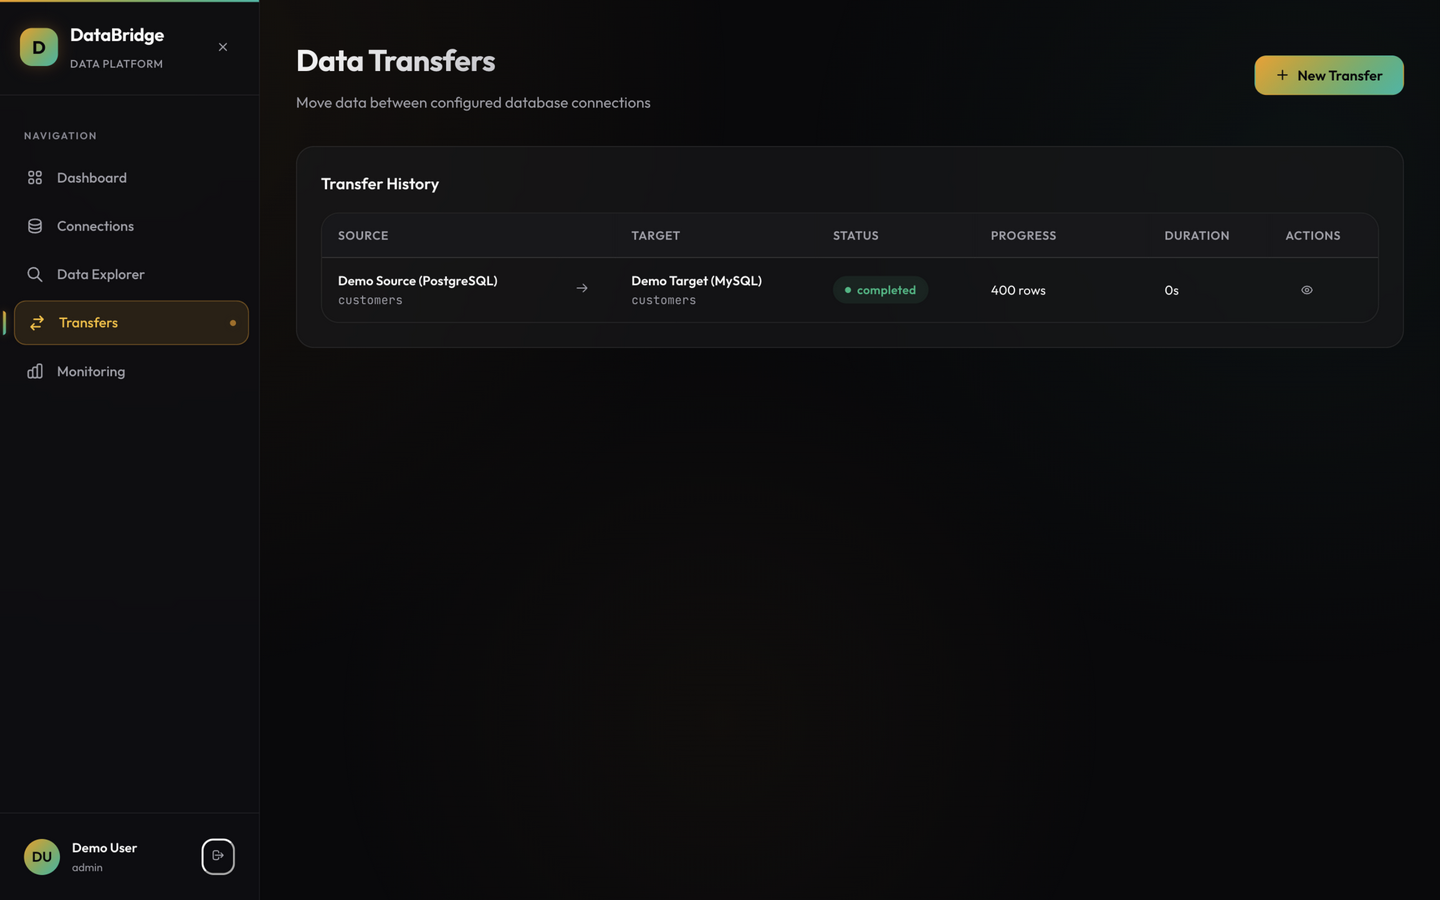
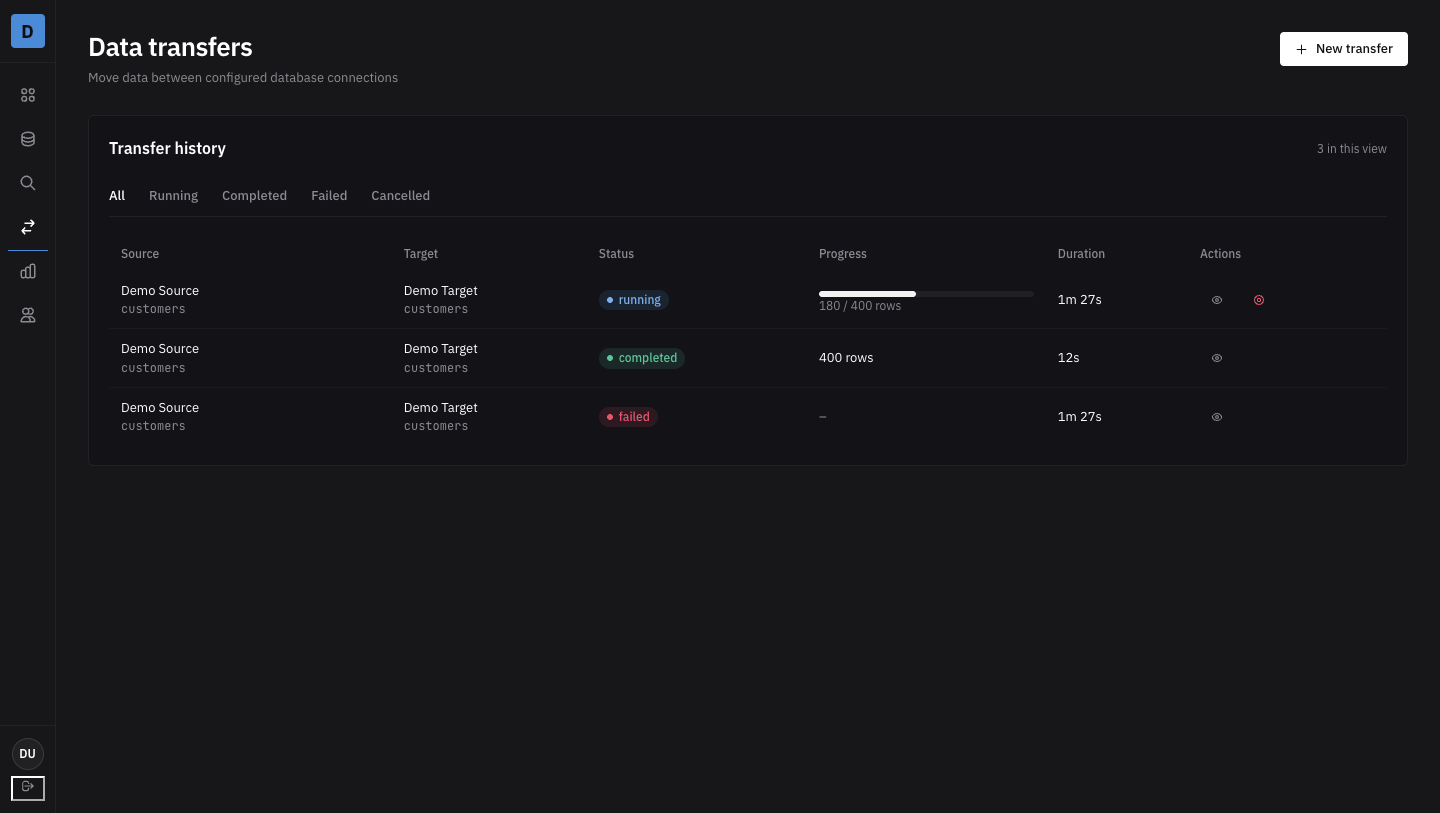
docs: refresh all screenshots and remove stale theme references
Recapture all nine screenshots from the production build of the redesigned SPA at 1440x900 (login captured unauthenticated, the wizard driven to step 3 to show the column-mapping spine, transfer detail from the new route). Update ARCHITECTURE.md with the current component tree, routes, URL state and Data Terminal design tokens; update TESTING.md with the full frontend check list and the design lint gate; fix the two remaining glassmorphism references in README and ARCHITECTURE.

diff --git a/docs/ARCHITECTURE.md b/docs/ARCHITECTURE.md
@@ -14,20 +14,33 @@ The frontend is a Single Page Application (SPA) that communicates with the backe
 
 **Component Architecture:**
 ```
-App.jsx (Router + Auth Guard)
-├── Sidebar.jsx (Navigation)
+App.jsx (Router + Auth Guard + Skip Link)
+├── Sidebar.jsx (Icon rail / mobile drawer)
+├── components/States.jsx (Loading, Empty, Error, Freshness, Value)
+├── components/Modal.jsx (Accessible dialog)
+├── context/AuthContext.jsx
+├── hooks/usePolling.js
 ├── Login.jsx (Auth forms)
 ├── Dashboard.jsx (Stats + Activity)
 ├── Connections.jsx (CRUD + Test)
 ├── Explorer.jsx (Schema Tree + Preview)
 ├── Transfers.jsx (Wizard + History)
-└── Monitoring.jsx (Metrics + Logs)
+├── TransferDetail.jsx (/transfers/:id — progress + logs)
+├── Monitoring.jsx (Metrics + Activity)
+└── AdminUsers.jsx (/admin/users — admin only)
 ```
 
+**Routes**: `/login`, `/`, `/connections`, `/explorer`, `/transfers`,
+`/transfers/:id`, `/monitoring`, `/admin/users`. Filters, tabs, the selected
+table and the new-transfer wizard are reflected in the URL so views are
+shareable (`?status=`, `?new=1`, `?conn=`/`?schema=`/`?table=`/`?tab=`,
+`?view=`). See [design/DESIGN-SYSTEM.md](../design/DESIGN-SYSTEM.md).
+
 **Key Design Decisions:**
-- **Vanilla CSS Design System**: I went with custom CSS over Tailwind/Bootstrap to have full control over the dark-theme glassmorphism design. It also avoids framework lock-in.
+- **Vanilla CSS design tokens**: A three-layer token system (primitive → semantic → component) in `index.css` drives the dark *Data Terminal* design system — one text face, monospace reserved for literal code/identifiers, a 1px accent line for selections and tabular figures. No gradients, glass or resting shadows. No framework lock-in; the WCAG 2.2 AA tier is committed in [design/accessibility-requirements.md](../design/accessibility-requirements.md).
 - **Context API for Auth**: React Context handles auth state well enough here. Pulling in Redux or Zustand would be overkill for managing a single user session.
 - **Polling for Progress**: Transfer progress uses chained-`setTimeout` polling (see `usePolling`) so a slow response can never stack overlapping requests; in-flight requests are aborted on unmount. WebSockets would be more efficient at scale, but polling is simpler, reliable, and auto-stops when transfers finish.
+- **Deep-linkable detail and admin views**: Transfer detail was promoted from a modal to a route so it can be shared and Back is predictable; the admin users list moved from a Monitoring tab to its own role-gated route. Both keep the API as the source of truth.
 
 ---
 

diff --git a/README.md b/README.md
@@ -35,8 +35,9 @@ views can be shared.
 
 ## 📸 Screenshots
 
-> These capture the previous amber/teal theme and are kept for reference;
-> refresh them from the demo stack after the redesign.
+Captured from the production build of the SPA at 1440×900 against a
+representative API response (the same shape the [demo stack](#60-second-demo-with-sample-data)
+serves). All views show the current Data Terminal design system.
 
 | | |
 |---|---|
@@ -53,7 +54,7 @@ views can be shared.
 | ![Transfer history](docs/screenshots/transfers.png) | |
 </details>
 
-*Captured from the [demo stack](#60-second-demo-with-sample-data) after its scripted PostgreSQL → MySQL transfer.*
+*The transfer detail and history views show the sample PostgreSQL → MySQL transfer from the [demo stack](#60-second-demo-with-sample-data).*
 
 ## 🏗 Architecture
 
@@ -324,7 +325,7 @@ See [docs/TESTING.md](docs/TESTING.md) for what each suite covers.
 | **Staging tables for atomicity** | Cross-database copies cannot share a transaction; staging + publish makes transfers atomic anyway and re-runnable without duplicates |
 | **Fernet encryption** | The app needs to decrypt credentials to connect to user databases — symmetric encryption fits this use case, with the key stored separately in env vars |
 | **SQLAlchemy inspect()** | Lets me reflect any user database schema dynamically without knowing its structure ahead of time |
-| **Vanilla CSS** | Gives me full control over the dark-theme glassmorphism design without any framework overhead |
+| **Vanilla CSS + design tokens** | Full control over the dark Data Terminal design system (three-layer CSS custom-property tokens) without framework lock-in; every UI class maps to a token |
 | **Batch processing + streaming cursors** | Without batching and server-side cursors, a 10M-row transfer would exhaust memory |
 
 ---

diff --git a/docs/TESTING.md b/docs/TESTING.md
@@ -37,7 +37,13 @@ npm test                         # vitest + React Testing Library
 | `tests/test_transfer_worker.py` | End-to-end transfer engine: staging, publish, cancel, failure, reaper |
 | `tests/test_security_hardening.py` | Filter/identifier injection, token rotation, rate limits, activation, admin role |
 | `tests/test_observability.py` | Deep health probes, request IDs |
-| `frontend/src/**/*.test.jsx` | usePolling, AuthContext, axios interceptors, Login flows |
+| `frontend/src/**/*.test.{js,jsx}` | usePolling, AuthContext, axios interceptors, Login flows, shared state primitives, and the API calls behind the redesigned routes |
+
+Frontend checks: `npm test` (Vitest), `npm run lint` (ESLint),
+`npm run format:check` (Prettier), `npm run build` (Vite). The visual
+direction is additionally gated by the app-screen lint/inspector from the
+design-taste-frontend skill (`lint.mjs --app` must report 0 FAIL); see
+[design/DESIGN-SYSTEM.md](../design/DESIGN-SYSTEM.md).
 
 ## Conventions
 

diff --git a/CHANGELOG.md b/CHANGELOG.md
@@ -29,9 +29,9 @@ The format follows [Keep a Changelog](https://keepachangelog.com/en/1.1.0/).
   skip link, labelled main landmark, `aria-live` toasts, focus-visible
   everywhere, inline errors tied with `aria-describedby`, Escape/reduced
   motion, keyboard-operable backdrops and dialogs.
-- The screenshots in `docs/screenshots/` show the previous theme and are
-  kept for reference; capture fresh ones from the demo stack before the
-  next release.
+- Refreshed all nine `docs/screenshots/` captures against the redesigned
+  production build (including the new transfer detail route, admin users
+  route and column-mapping wizard step).
 
 ### Fixed
 
